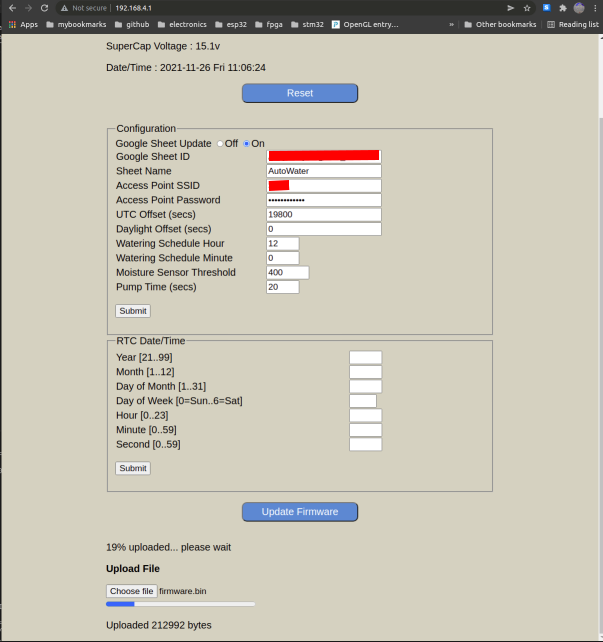
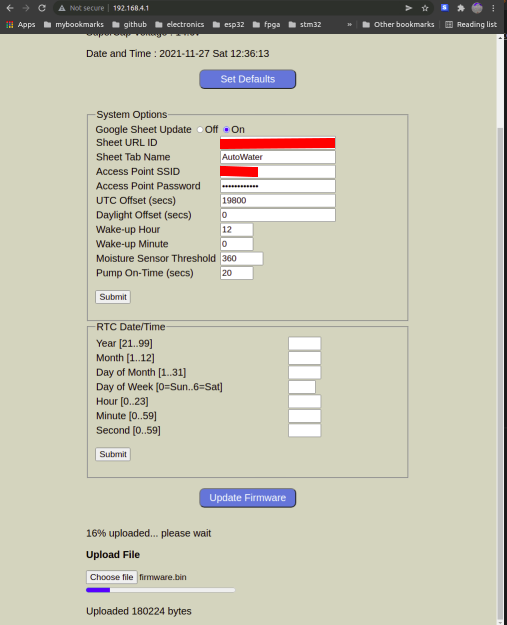
cleanup,  optimize on-time

Changed region(s): [[0.0, 0.0, 0.8284, 1.0], [0.7101, 0.0, 1.0, 1.0], [0.1479, 0.8208, 0.4734, 1.0]]

diff --git a/data/index.html b/data/index.html
@@ -12,13 +12,13 @@
 <p><span>Sensor Reading : </span><span id="sensorReading">%SENSOR_READING%</span></p>
 <p><span>Battery Voltage : </span><span id="batteryVoltage">%BATTERY_VOLTAGE%v</span></p>
 <p><span>SuperCap Voltage : </span><span id="superCapVoltage">%SUPERCAP_VOLTAGE%v</span></p>
-<p><span>Date/Time : </span><span id="dateTime">%RTC_YEAR%-%RTC_MONTH%-%RTC_DOM% %RTC_DOW% %RTC_HOUR%:%RTC_MINUTE%:%RTC_SECOND%</span></p>
+<p><span>Date and Time : </span><span id="dateTime">%RTC_YEAR%-%RTC_MONTH%-%RTC_DOM% %RTC_DOW% %RTC_HOUR%:%RTC_MINUTE%:%RTC_SECOND%</span></p>
 <p>
 <div style="text-align:center;">
-<a href="/reset"><button>Reset</button></a>
+<a href="/defaults"><button>Set Defaults</button></a>
 </div>
 <p>
-<fieldset><legend>Configuration</legend>
+<fieldset><legend>System Options</legend>
 <form action="/get">
 Google Sheet Update
 <input type="radio" id="gsUpdateOff" name="gsUpdate" onclick="handleClick(this);" value="off" %GS_UPDATE_OFF%><label for="gsUpdateOff">Off</label>
@@ -26,16 +26,16 @@ Google Sheet Update
 <br>
 <div style="display:%DISPLAY_INTERNET%;" id="div_internet">
 <table>
-<tr><td>Google Sheet ID</td><td><input type="text" id="gsID" name=gsID value="%GS_ID%"></td></tr>
-<tr><td>Sheet Name</td><td><input type="text" id="gsSheet" name=gsSheet value="%GS_SHEET%"></td></tr>
+<tr><td>Sheet URL ID</td><td><input type="text" id="gsID" name=gsID value="%GS_ID%"></td></tr>
+<tr><td>Sheet Tab Name</td><td><input type="text" id="gsSheet" name=gsSheet value="%GS_SHEET%"></td></tr>
 <tr><td>Access Point SSID</td><td><input type="text" id="wifiSSID" name=wifiSSID value="%WIFI_SSID%"></td></tr>
 <tr><td>Access Point Password</td><td><input type="password" id="wifiPassword" name=wifiPassword value="%WIFI_PASSWORD%"></td></tr>
 <tr><td>UTC Offset (secs)</td><td><input type="number" id="utcOffset" name=utcOffset value="%UTC_OFFSET%"></td></tr>
 <tr><td>Daylight Offset (secs)</td><td><input type="number" id="daylightOffset" name=daylightOffset value="%DAYLIGHT_OFFSET%"></td></tr>
-<tr><td>Watering Schedule Hour</td><td><input type="number" name="scheduleHour" min="9" max="15" value="%SCHEDULE_HOUR%"></td></tr>
-<tr><td>Watering Schedule Minute</td><td><input type="number" name="scheduleMinute"  min="0" max="59" value="%SCHEDULE_MINUTE%"></td></tr>
+<tr><td>Wake-up Hour</td><td><input type="number" name="scheduleHour" min="9" max="15" value="%SCHEDULE_HOUR%"></td></tr>
+<tr><td>Wake-up Minute</td><td><input type="number" name="scheduleMinute"  min="0" max="59" value="%SCHEDULE_MINUTE%"></td></tr>
 <tr><td>Moisture Sensor Threshold</td><td><input type="number" name="scheduleSensorThreshold" min="350" max="1000" value="%SCHEDULE_SENSOR_THRESHOLD%"></td></tr>
-<tr><td>Pump Time (secs)</td><td><input type="number" name="scheduleOnTimeSeconds"  min="5" max="25" value="%ON_TIME_SECONDS%"></td></tr>
+<tr><td>Pump On-Time (secs)</td><td><input type="number" name="scheduleOnTimeSeconds"  min="5" max="25" value="%ON_TIME_SECONDS%"></td></tr>
 </table>
 </div>
 <p>

diff --git a/src/main.cpp b/src/main.cpp
@@ -10,15 +10,16 @@
 #include "ntp.h"
 
 #define pinBuzzer       13  // piezo buzzer
-#define pinPumpSwitch   26  // controls the pump
-#define pinConfigBtn    0   // wifi configuration
-#define pinSensorPower  25
-#define pinSDA          27
-#define pinSCL          14
+#define pinPumpSwitch   26  // watering pump on/off control
+#define pinConfigBtn    0   // wifi AP server enable
+#define pinSensorPower  25  // moisture sensor power on/off control
+#define pinSDA          27  // I2C interface to DS3231 RTC
+#define pinSCL          14  // "
 
-const char* FirmwareRevision = "1.21";
+const char* FirmwareRevision = "1.30";
 
 void setup() {
+  uint32_t marker = millis();
   pinMode(pinSensorPower, OUTPUT);
   // sensor power on
   digitalWrite(pinSensorPower, HIGH);
@@ -34,14 +35,14 @@ void setup() {
   Serial.println();
   Serial.printf("EspWaterTimer v%s compiled on %s at %s\n\n", FirmwareRevision, __DATE__, __TIME__);
 
-  // load non-volatile data stored in preferences
+  // load non-volatile data stored in Preferences partition
   // google sheet update yes/no, internet access point credentials
   gs_config_load(GSConfig); 
-  // daily scheduled hour/minute, soil moisture threshold, pump on-time
+  // daily scheduled wake-up hour/minute, soil moisture threshold, pump on-time
   schedule_load(Schedule); 
-  // buffer of unsent google sheet data records
+  // buffer of queued google sheet data records
   log_buffer_load(LogBuffer); 
-  Serial.printf("Number unsent records = %d\n", LogBuffer.numEntries);
+  Serial.printf("Number queued (unsent) records = %d\n", LogBuffer.numEntries);
 
   Serial.printf("GS Update required = %s\n", GSConfig.update ? "true" : "false");
 
@@ -61,16 +62,23 @@ void setup() {
     }
   
   Serial.println("\nFor WiFi AP mode, press and hold button (GPIO0) until you hear a long tone");
-  // beep 10 times to allow enough time for pressing GPIO0 button if required
-  beep(pinBuzzer,1000, 100, 100,10); 
-    
-  if (digitalRead(pinConfigBtn) == 0) {
-    // GPIO0 button was pressed
+  int btnConfig;
+  int counter = 5;
+  do {
+    // pulsating beeps for one second. Press GPIO0 button now for  wifi AP web server mode
+    tone_generate(pinBuzzer, 300, 100);
+    tone_generate(pinBuzzer, 600, 100);
+    btnConfig = digitalRead(pinConfigBtn);
+    counter--;
+  } while (btnConfig && counter);
+  
+  if (btnConfig == 0) {
+    // GPIO0 button is pressed
     Serial.println("\n====== Access Point Configuration Mode ======");
     Serial.println("SSID=EspTimer Password=123456789  URL=http://192.168.4.1");
-    // 3 second long 800Hz tone to indicate unit is now in standalone Access Point and 
+    // 3 second 1000Hz beep  to confirm unit is now in standalone Access Point and 
     // web server configuration mode.
-    tone_generate(pinBuzzer, 800, 3000);
+    tone_generate(pinBuzzer, 1000, 3000);
     if(!SPIFFS.begin(true)){
       Serial.println("An Error has occurred while mounting SPIFFS");
       return;
@@ -81,10 +89,9 @@ void setup() {
     Serial.println("\n====== Normal Watering Mode ======");
     GS_DATA_t gsData;
     analogRead(pinADCSensor); // dummy sensor read, throwaway sample
-    delay(50);
-    // get sensor data sample
+    // get averaged sensor reading
     gsData.sensorReading = sensor_reading();
-    // power off sensor, reduces current draw by 6mA
+    // power off sensor (reduces current draw by 6mA)
     digitalWrite(pinSensorPower, LOW);
     // date and time stamp, voltages
     rtc_get_clock(Clock);
@@ -143,7 +150,7 @@ void setup() {
           GS_DATA_t logData;
           log_buffer_dequeue(LogBuffer, logData);
           gs_update(logData);
-          delay(500);
+          delay(250);
           }
         // upload today's data
         gs_update(gsData);
@@ -156,9 +163,9 @@ void setup() {
      log_buffer_store(LogBuffer);
      }
      
-    Serial.println("Entering deep sleep");
+    Serial.printf("Total time taken = %dseconds, entering deep sleep", ((millis() - marker)+500)/1000 );
     Serial.flush();
-    delay(100);    
+    delay(10);    
     // for testing google sheets update, use esp32 wakeup timer for wakeup after 60seconds
     //Serial.println("Set next wakeup time for +1 minute");
     //esp_sleep_enable_timer_wakeup(60 * 1000000ULL);

diff --git a/src/wificonfig.cpp b/src/wificonfig.cpp
@@ -197,11 +197,11 @@ void wifi_access_point_init() {
     request->send(SPIFFS, "/style.css", "text/css");
   });
 
-  server.on("/reset", HTTP_GET, [] (AsyncWebServerRequest *request) {
+  server.on("/defaults", HTTP_GET, [] (AsyncWebServerRequest *request) {
     gs_config_reset(GSConfig);
     schedule_reset(Schedule);
     log_buffer_reset(LogBuffer);
-    request->send(200, "text/html", "Reset Complete<br><a href=\"/\">Return to Home Page</a>");  
+    request->send(200, "text/html", "Default options set<br><a href=\"/\">Return to Home Page</a>");  
   });
 
   server.on("/get", HTTP_GET, [] (AsyncWebServerRequest *request) {
@@ -247,7 +247,7 @@ void wifi_access_point_init() {
       GSConfig.daylightOffsetSeconds = inputMessage.toInt();
       }
       
-    // Watering Schedule 
+    // wake-up time hour and minute 
     if (request->hasParam("scheduleHour")) {
       inputMessage = request->getParam("scheduleHour")->value();
       bScheduleChange = true; 
@@ -258,18 +258,20 @@ void wifi_access_point_init() {
       bScheduleChange = true; 
       Schedule.minute = (uint32_t)inputMessage.toInt();
       }
+    // moisture sensor dry threshold. if reading > threshold, turn on pump  
     if (request->hasParam("scheduleSensorThreshold")) {
       inputMessage = request->getParam("scheduleSensorThreshold")->value();
       bScheduleChange = true; 
       Schedule.sensorThreshold = (uint32_t)inputMessage.toInt();
       }
+    // Pump on-time  
     if (request->hasParam("scheduleOnTimeSeconds")) {
       inputMessage = request->getParam("scheduleOnTimeSeconds")->value();
       bScheduleChange = true; 
       Schedule.onTimeSeconds = (uint32_t)inputMessage.toInt();
       }    
 
-    // RTC Clock
+    // RTC Clock setting
     ClockSet = Clock;  
     if (request->hasParam("rtcYear")) {
       inputMessage = request->getParam("rtcYear")->value();
@@ -322,7 +324,7 @@ void wifi_access_point_init() {
       bGSConfigChange = false;
       }
     if (bScheduleChange == true) {
-      Serial.printf("Schedule changed, saving schedule and resetting RTC daily alarm\n");
+      Serial.printf("Watering options changed, saving schedule and resetting RTC daily alarm\n");
       schedule_store(Schedule);
       RTC_ALARM alarm;
       alarm.hour = Schedule.hour;

diff --git a/README.md b/README.md
@@ -14,10 +14,10 @@ If Google Sheet uploading is enabled and the configured Internet Access Point is
 
 <img src="docs/autowater_gs_update.png" />
 
-If you want to configure the watering systems, press the reset button for the ESP32 module and then press the configuration button (GPIO0) when you hear a series of short beeps. Keep it pressed until you hear a long confirmation tone, and then release. The system is now configured as a stand-alone WiFi Access Point (AP) with SSID `ESP32Timer` and password `123456789`.
+To configure the watering system, press the reset button for the ESP32 module and then immediately press the configuration button (GPIO0) when you hear a pulsing tone. Keep it pressed until you hear a long confirmation tone, and then release. The system is now configured as a stand-alone WiFi Access Point (AP) with SSID `ESP32Timer` and password `123456789`.
 
 A web server running on this AP at `url : http://192.168.4.1` can then be used to configure the following :
-* Configure Options
+* System Options
   * Enable / disable uploading of data to the spreadsheet
   * Google Sheet URL ID
   * Google Sheet tab name
@@ -33,15 +33,58 @@ A web server running on this AP at `url : http://192.168.4.1` can then be used t
   * Time
 
 Note that the RTC configuration is useful for initial setting. If Google Sheet update is enabled and
-internet access is available, the system will obtain the local time from a Network Time Protocol (NTP) server and correct the RTC if required.  The RTC error (NTP time minus RTC time) is also logged to the Google Sheet. The error should be no more than a few seconds each day with the DS3231 RTC.
+internet access is available, the system will get the local time from a Network Time Protocol (NTP) server and correct the RTC if required.  The error in seconds (NTP time minus RTC time) is also logged to the Google Sheet.
 
-When done with web page configuration changes, reset the ESP32 for normal watering mode with the new configuration.
+When done with web page configuration changes, press the reset button on the ESP32 module for normal watering mode with the new configuration.
 
 <img src="docs/ap_config_homepage.png" />
 
 The watering system may not be conveniently located for cable-based programming. So you can also update the firmware via this configuration server page.  After the new firmware binary file is uploaded, the ESP32 will automatically re-start with the updated firmware.
 
 <img src="docs/ap_firmware_update.png" />
+
+# Normal Watering Mode execution log after wake-up
+
+The sensor was disconnected for this run (reading = 0). 
+
+So, when
+
+* Google Sheet update is enabled
+* Internet access is available
+* Watering is not required
+* No queued unsent records
+
+the total time taken is ~14 seconds. If watering is required, ~34 seconds assuming the default
+pump on-time of 20 seconds. Note that Google Sheets returns a redirect HTTP code (302) so this is
+the expected value.
+
+```
+EspWaterTimer v1.30 compiled on Nov 27 2021 at 12:27:40
+
+Number queued (unsent) records = 0
+GS Update required = true
+Loaded Schedule
+        time = 12:00
+        sensor threshold = 360
+        ton time = 20 secs
+RTC Alarm2 : Daily @ 12:00
+
+For WiFi AP mode, press and hold button (GPIO0) until you hear a long tone
+
+====== Normal Watering Mode ======
+Battery Voltage 4.1V
+SuperCap Voltage 14.7V
+Sensor Threshold 360
+Sensor Reading 0
+On Time 0 secs
+Watering not required
+Setting alarm for next day
+Updating google sheet - AutoWater
+Connected, IP Address : 192.168.146.127
+Updated RTC from NTP
+Http Code expect 302, received 302
+Total time taken = 14seconds, entering deep sleep
+```
 
 # Build Environment
 * Ubuntu 20.04 LTS amdx64
